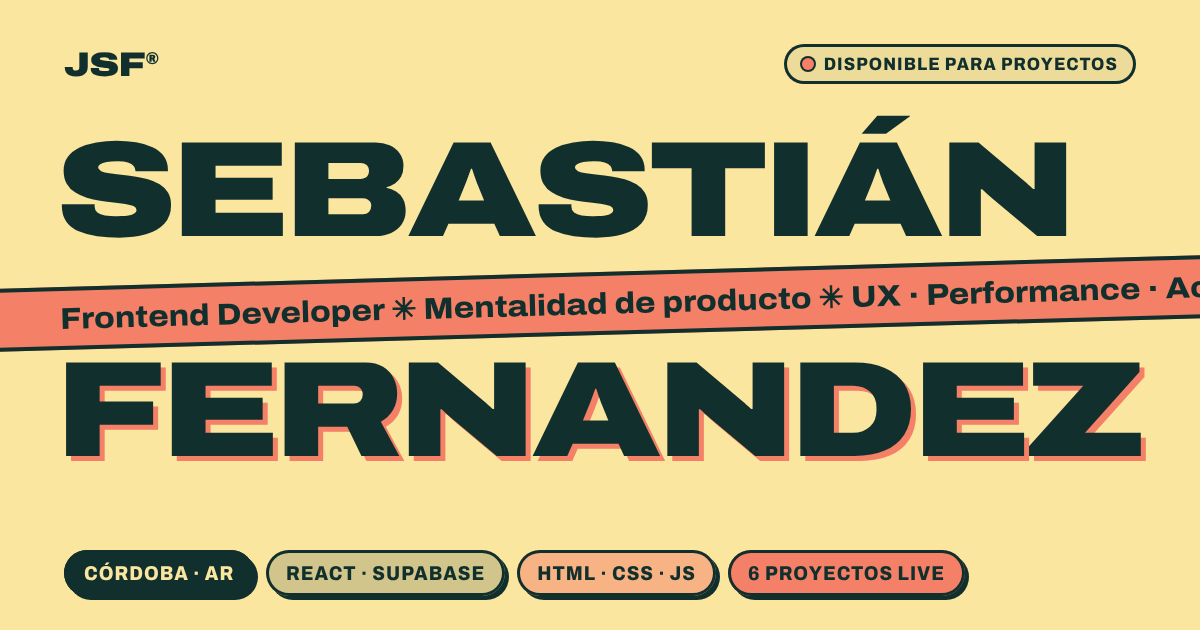
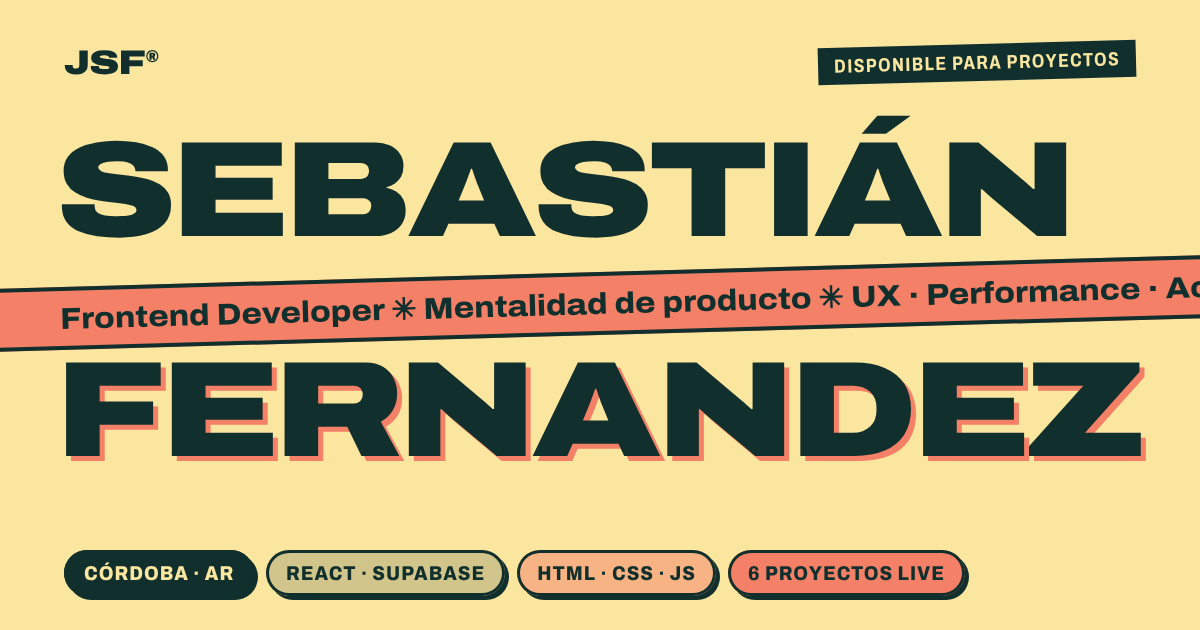
Ajustes: chip de disponibilidad, React como skill y capturas mobile a bloque completo
- "Disponible para proyectos" pasa a etiqueta editorial (sin punto ni borde redondo), también en la imagen OG.
- React + Vite pasa a skills aprendidas (columna JavaScript); En formación: TypeScript, Next.js, Node.js, REST APIs, IA.
- En mobile la captura de cada destacado ocupa todo el bloque (sin marco de teléfono), y en el modal llena el ancho.

Claude-Session: https://claude.ai/code/session_01BHvj3cjTpzQNewfVGVkyQp

Changed region(s): [[0.6475, 0.0603, 0.9558, 0.1508], [0.0617, 0.0603, 0.1233, 0.1206]]

diff --git a/index.html b/index.html
@@ -136,7 +136,7 @@
     <!-- ════════ HERO ════════ -->
     <section class="hero" aria-label="Presentación" data-i18n-aria="aria.hero">
       <div class="hero__top">
-        <p class="avail"><span class="dot" aria-hidden="true"></span><span data-i18n="hero.avail">Disponible para proyectos</span></p>
+        <p class="avail label" data-i18n="hero.avail">Disponible para proyectos</p>
         <p class="hero__coords label" aria-hidden="true">31°25′S — 64°11′O · CBA / ARG</p>
       </div>
 
@@ -205,7 +205,7 @@
             <figcaption class="tag tag--coral shot-label" data-i18n="label.mobile">Mobile</figcaption>
             <div class="phone" style="--ph: #613928">
               <img src="img/p/bagues-m-780.webp" srcset="img/p/bagues-m-390.webp 390w, img/p/bagues-m-780.webp 780w, img/p/bagues-m-1170.webp 1170w"
-                   sizes="(min-width: 1024px) 210px, 220px" width="1170" height="2532"
+                   sizes="(max-width: 700px) 92vw, (min-width: 1024px) 210px, 220px" width="1170" height="2532"
                    loading="lazy" decoding="async" alt="Captura mobile de la tienda Bagués Grupo Wolf" data-pa="bagues:m">
             </div>
           </figure>
@@ -251,7 +251,7 @@
             <figcaption class="tag tag--coral shot-label" data-i18n="label.mobile">Mobile</figcaption>
             <div class="phone" style="--ph: #303530">
               <img src="img/p/cespad-m-780.webp" srcset="img/p/cespad-m-390.webp 390w, img/p/cespad-m-780.webp 780w, img/p/cespad-m-1170.webp 1170w"
-                   sizes="(min-width: 1024px) 210px, 220px" width="1170" height="2532"
+                   sizes="(max-width: 700px) 92vw, (min-width: 1024px) 210px, 220px" width="1170" height="2532"
                    loading="lazy" decoding="async" alt="Captura mobile de el sitio Grupo CESPAD" data-pa="cespad:m">
             </div>
           </figure>
@@ -298,7 +298,7 @@
             <figcaption class="tag tag--coral shot-label" data-i18n="label.mobile">Mobile</figcaption>
             <div class="phone" style="--ph: #45554c">
               <img src="img/p/greenset-m-780.webp" srcset="img/p/greenset-m-390.webp 390w, img/p/greenset-m-780.webp 780w, img/p/greenset-m-1170.webp 1170w"
-                   sizes="(min-width: 1024px) 210px, 220px" width="1170" height="2532"
+                   sizes="(max-width: 700px) 92vw, (min-width: 1024px) 210px, 220px" width="1170" height="2532"
                    loading="lazy" decoding="async" alt="Captura mobile de el sitio Greenset Court" data-pa="greenset:m">
             </div>
           </figure>
@@ -345,7 +345,7 @@
             <figcaption class="tag tag--coral shot-label" data-i18n="label.mobile">Mobile</figcaption>
             <div class="phone" style="--ph: #151515">
               <img src="img/p/oratoria-m-780.webp" srcset="img/p/oratoria-m-390.webp 390w, img/p/oratoria-m-780.webp 780w, img/p/oratoria-m-1170.webp 1170w"
-                   sizes="(min-width: 1024px) 210px, 220px" width="1170" height="2532"
+                   sizes="(max-width: 700px) 92vw, (min-width: 1024px) 210px, 220px" width="1170" height="2532"
                    loading="lazy" decoding="async" alt="Captura mobile de la app Checklist de Oratoria" data-pa="oratoria:m">
             </div>
           </figure>
@@ -527,7 +527,7 @@
         <div class="skills-col"><h3 class="tag tag--sage tag--lg" data-i18n="sk.lang">Lenguajes</h3>
           <ul><li data-i18n="sk.semantic">HTML5 semántico</li><li>CSS3 / SASS</li><li>JavaScript ES6+</li><li>PHP</li><li>SQL</li></ul></div>
         <div class="skills-col"><h3 class="tag tag--coral tag--lg">JavaScript</h3>
-          <ul><li>DOM Manipulation</li><li>LocalStorage</li><li>Intersection Observer</li><li>WhatsApp API</li><li data-i18n="sk.forms">Validación de formularios</li></ul></div>
+          <ul><li>React + Vite</li><li>DOM Manipulation</li><li>LocalStorage</li><li>Intersection Observer</li><li>WhatsApp API</li><li data-i18n="sk.forms">Validación de formularios</li></ul></div>
         <div class="skills-col"><h3 class="tag tag--peach tag--lg">Performance</h3>
           <ul><li>Core Web Vitals</li><li>Lighthouse audits</li><li data-i18n="sk.webp">WebP y compresión</li><li>Lazy loading</li><li>Mobile-first</li></ul></div>
         <div class="skills-col"><h3 class="tag tag--sage tag--lg" data-i18n="sk.a11y">Accesibilidad</h3>
@@ -535,7 +535,7 @@
         <div class="skills-col"><h3 class="tag tag--coral tag--lg" data-i18n="sk.tools">Herramientas</h3>
           <ul><li>Git · GitHub</li><li>Vercel / Netlify</li><li>Supabase</li><li>Figma</li><li>Chrome DevTools</li></ul></div>
         <div class="skills-col"><h3 class="tag tag--peach tag--lg" data-i18n="sk.learning">En formación</h3>
-          <ul><li>React</li><li>Node.js</li><li>REST APIs</li><li>TypeScript</li><li data-i18n="sk.ai">Desarrollo con IA</li></ul></div>
+          <ul><li>TypeScript</li><li>Next.js</li><li>Node.js</li><li>REST APIs</li><li data-i18n="sk.ai">Desarrollo con IA</li></ul></div>
       </div>
 
       <!-- Divisor onda (decorativo) -->

diff --git a/css/styles.css b/css/styles.css
@@ -417,15 +417,12 @@ html.is-locked, html.is-locked body { overflow: hidden; }
   display: flex; justify-content: flex-start; align-items: center; gap: 0.75rem 1.5rem; flex-wrap: wrap;
 }
 .avail {
-  display: inline-flex; align-items: center; gap: 0.6rem;
-  padding: 0.55rem 1rem 0.55rem 0.85rem;
-  border-radius: 999px;
-  background: var(--surface);
-  box-shadow: inset 0 0 0 2px var(--line);
-  font-size: var(--tiny); font-weight: 800; font-stretch: 90%;
-  text-transform: uppercase; letter-spacing: 0.06em;
+  display: inline-block;
+  padding: 0.35rem 0.75rem;
+  background: var(--slate); color: var(--naples);
+  rotate: -1.5deg;
 }
-.avail .dot { color: var(--coral); width: 0.7em; height: 0.7em; box-shadow: 0 0 0 2px var(--slate); }
+[data-theme="dark"] .avail { background: var(--naples); color: var(--slate); }
 .hero__coords { color: var(--muted); }
 
 .hero__badge { position: absolute; right: var(--gutter); top: calc(var(--nav-h) + 0.75rem); z-index: 2; width: clamp(6.5rem, 10vw, 8.5rem); }
@@ -642,26 +639,33 @@ html.is-locked, html.is-locked body { overflow: hidden; }
   .case__info { grid-row: 2; }
 }
 
-/* ≤700px: el bloque muestra el diseño mobile del proyecto dentro de un teléfono.
+/* ≤700px: la captura mobile del proyecto ocupa el bloque completo.
    La versión desktop queda a un toque, en "Ver capturas". */
 @media (max-width: 700px) {
   .case { padding-top: var(--s-5); row-gap: 2rem; }
   .case__media {
-    height: 25rem; padding: 2.5rem 0 0;
+    padding: 0;
     overflow: hidden;
-    background: var(--accent);
+    border: 3px solid var(--line);
     border-radius: var(--r-lg);
-    box-shadow: inset 0 0 0 2px var(--slate);
+    background: var(--ph, var(--slate));
+    box-shadow: 6px 6px 0 var(--accent);
   }
   .case__media::before { display: none; }
   .shot-d { display: none; }
   .shot-m, .case:nth-of-type(even) .shot-m {
     position: relative; left: auto; right: auto; bottom: auto;
-    width: min(14rem, 62%); margin-inline: auto;
+    width: 100%; margin: 0;
   }
-  .shot-m .phone { border-bottom-left-radius: 0; border-bottom-right-radius: 0; }
-  .shot-m .shot-label { left: -1.25rem; }
+  .shot-m .phone, [data-theme="dark"] .shot-m .phone {
+    border: 0; border-radius: 0; box-shadow: none;
+  }
+  .shot-m .phone img { aspect-ratio: 4 / 5; border-radius: 0; }
+  .shot-m .shot-label { top: 0.85rem; left: 0.85rem; }
   .case__actions .btn { flex: 1 1 auto; }
+  /* Modal: la captura mobile llena el ancho */
+  .pd .pd__m { width: 100%; height: auto; max-height: none; aspect-ratio: auto; border: 0; border-radius: var(--r-sm); }
+  .pd .pd__m img { width: 100%; height: auto; aspect-ratio: 4 / 5; border-radius: var(--r-sm); }
 }
 
 /* ---------- Archivo ---------- */
@@ -910,7 +914,8 @@ html.is-locked, html.is-locked body { overflow: hidden; }
     border: 0; border-radius: 0; box-shadow: none;
   }
   .pd__inner { display: block; height: 100dvh; overflow-y: auto; overscroll-behavior: contain; }
-  .pd__gallery { padding: 1rem var(--gutter) 1.25rem; padding-top: max(1rem, env(safe-area-inset-top)); padding-right: calc(var(--gutter) + 3.5rem); }
+  .pd__gallery { padding: 1rem var(--gutter) 1.25rem; padding-top: max(1rem, env(safe-area-inset-top)); }
+  .pd__switch { padding-right: 3.5rem; }
   .pd__stage { flex: none; min-height: 0; }
   .pd__close { position: absolute; top: max(0.85rem, env(safe-area-inset-top)); right: var(--gutter); color: var(--naples); background: #0A1F1D; z-index: 2; }
   .pd__m { height: min(56vh, 30rem); }
